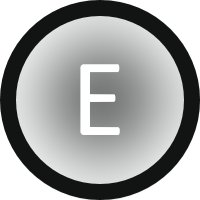
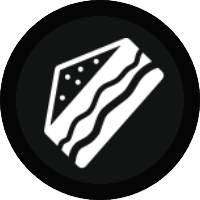
Add status graphics.

diff --git a/src/main/java/core/HubController.java b/src/main/java/core/HubController.java
@@ -263,10 +263,6 @@ public class HubController
                                              double scrollAmount = (event.getDeltaY()/profileScrollPane.getContent().getBoundsInLocal().getHeight()/2);
                                              profileScrollPane.setVvalue(profileScrollPane.getVvalue() + -scrollAmount);
                                          });
-        for (int i = 0; i<20; i++)
-        {
-            addProfile(UserProfileManager.getCurrentUserProfile());
-        } //TODO: Remove
 
     }
 
@@ -318,7 +314,7 @@ public class HubController
             statsConditionImage.setSmooth(true);
             statsConditionImage.setRadius(20);
             statsConditionBox.getChildren().add(statsConditionImage);
-            statsConditionImage.setFill(new ImagePattern(new Image(getClass().getClassLoader().getResourceAsStream("hubGraphics/status/"+profile.getStatusConditions()[i].name()+".png"))));
+            statsConditionImage.setFill(new ImagePattern(new Image(getClass().getClassLoader().getResourceAsStream("hubGraphics/status/"+profile.getStatusConditions()[i].name().toLowerCase()+".png"))));
         }
         statsBox.getChildren().add(statsName);
         statsBox.getChildren().add(statsHpBar);

diff --git a/src/main/java/user/UserProfile.java b/src/main/java/user/UserProfile.java
@@ -235,19 +235,12 @@ public class UserProfile
             if (statusConditions[i].equals(condition))
             {
                 statusConditions[i] = StatusCondition.NONE;
-                if (i == statusConditions.length-1)
-                {
-                    statusConditions[i] = StatusCondition.NONE;
-                }
-                else if (!statusConditions[i+1].equals(StatusCondition.NONE))
-                {
-                    for (int j = i; j<statusConditions.length-1; j++)
-                    {
-                        statusConditions[j] = statusConditions[j+1];
 
-                    }
+                for (int j = i; j<statusConditions.length-1; j++)
+                {
+                    statusConditions[j] = statusConditions[j+1];
+                    statusConditions[j+1] = StatusCondition.NONE;
                 }
-
                 break;
             }
         }
